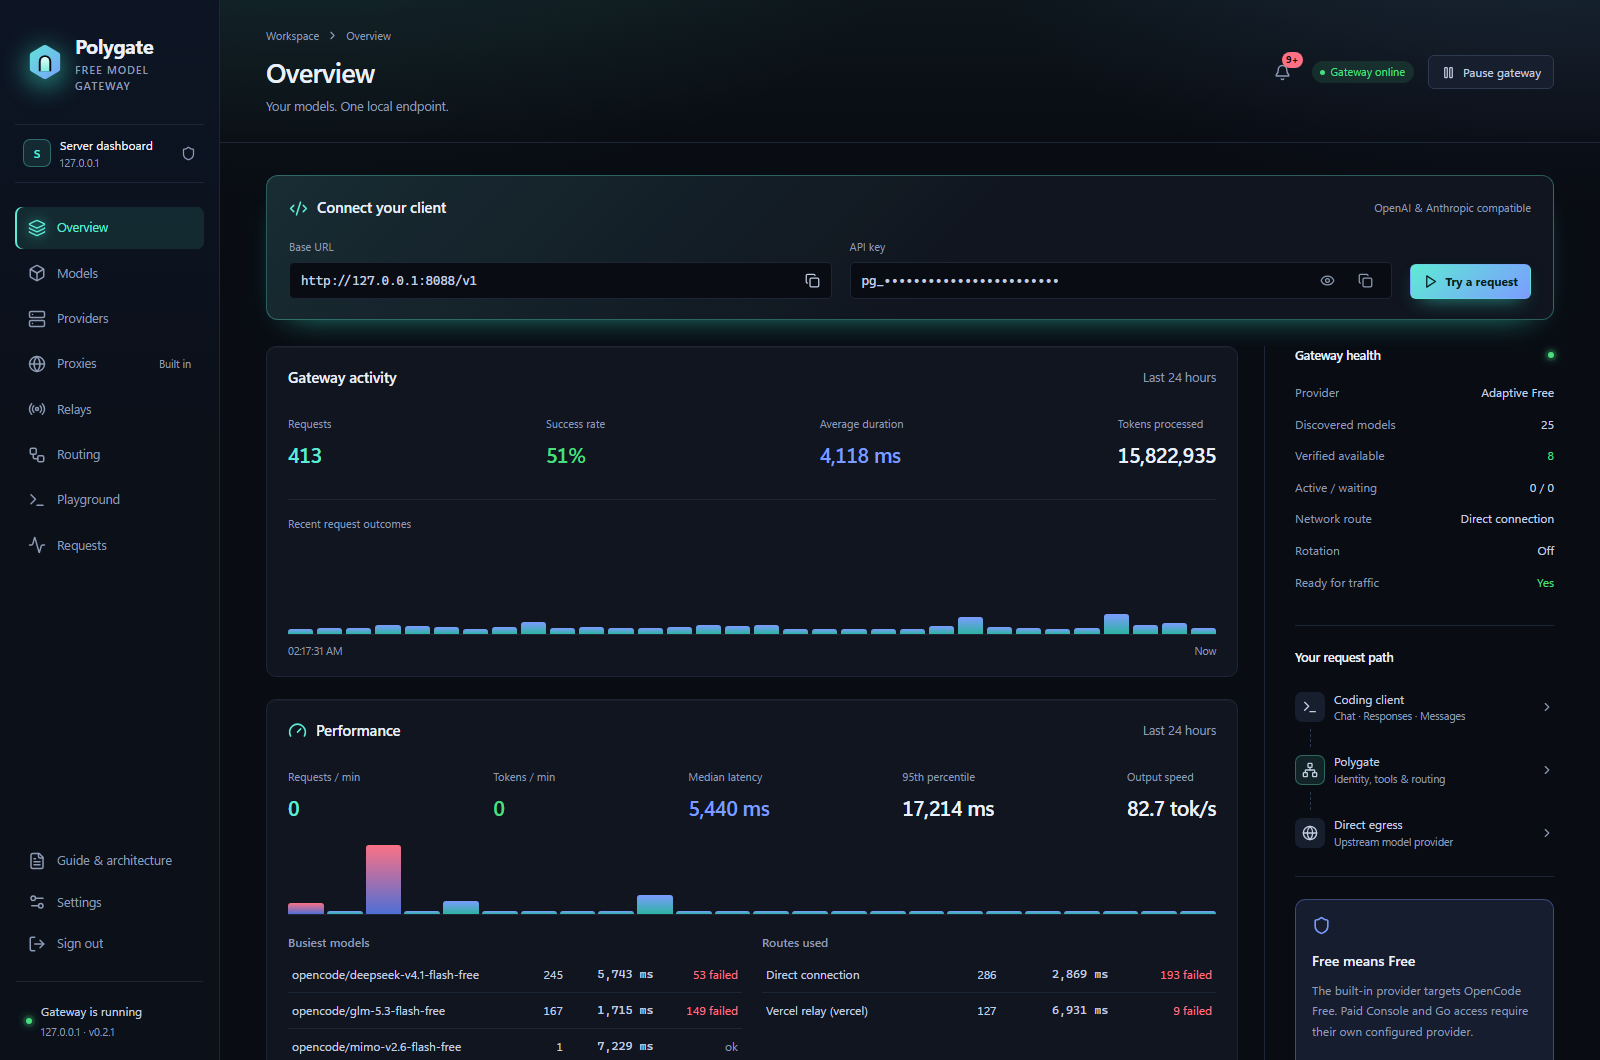
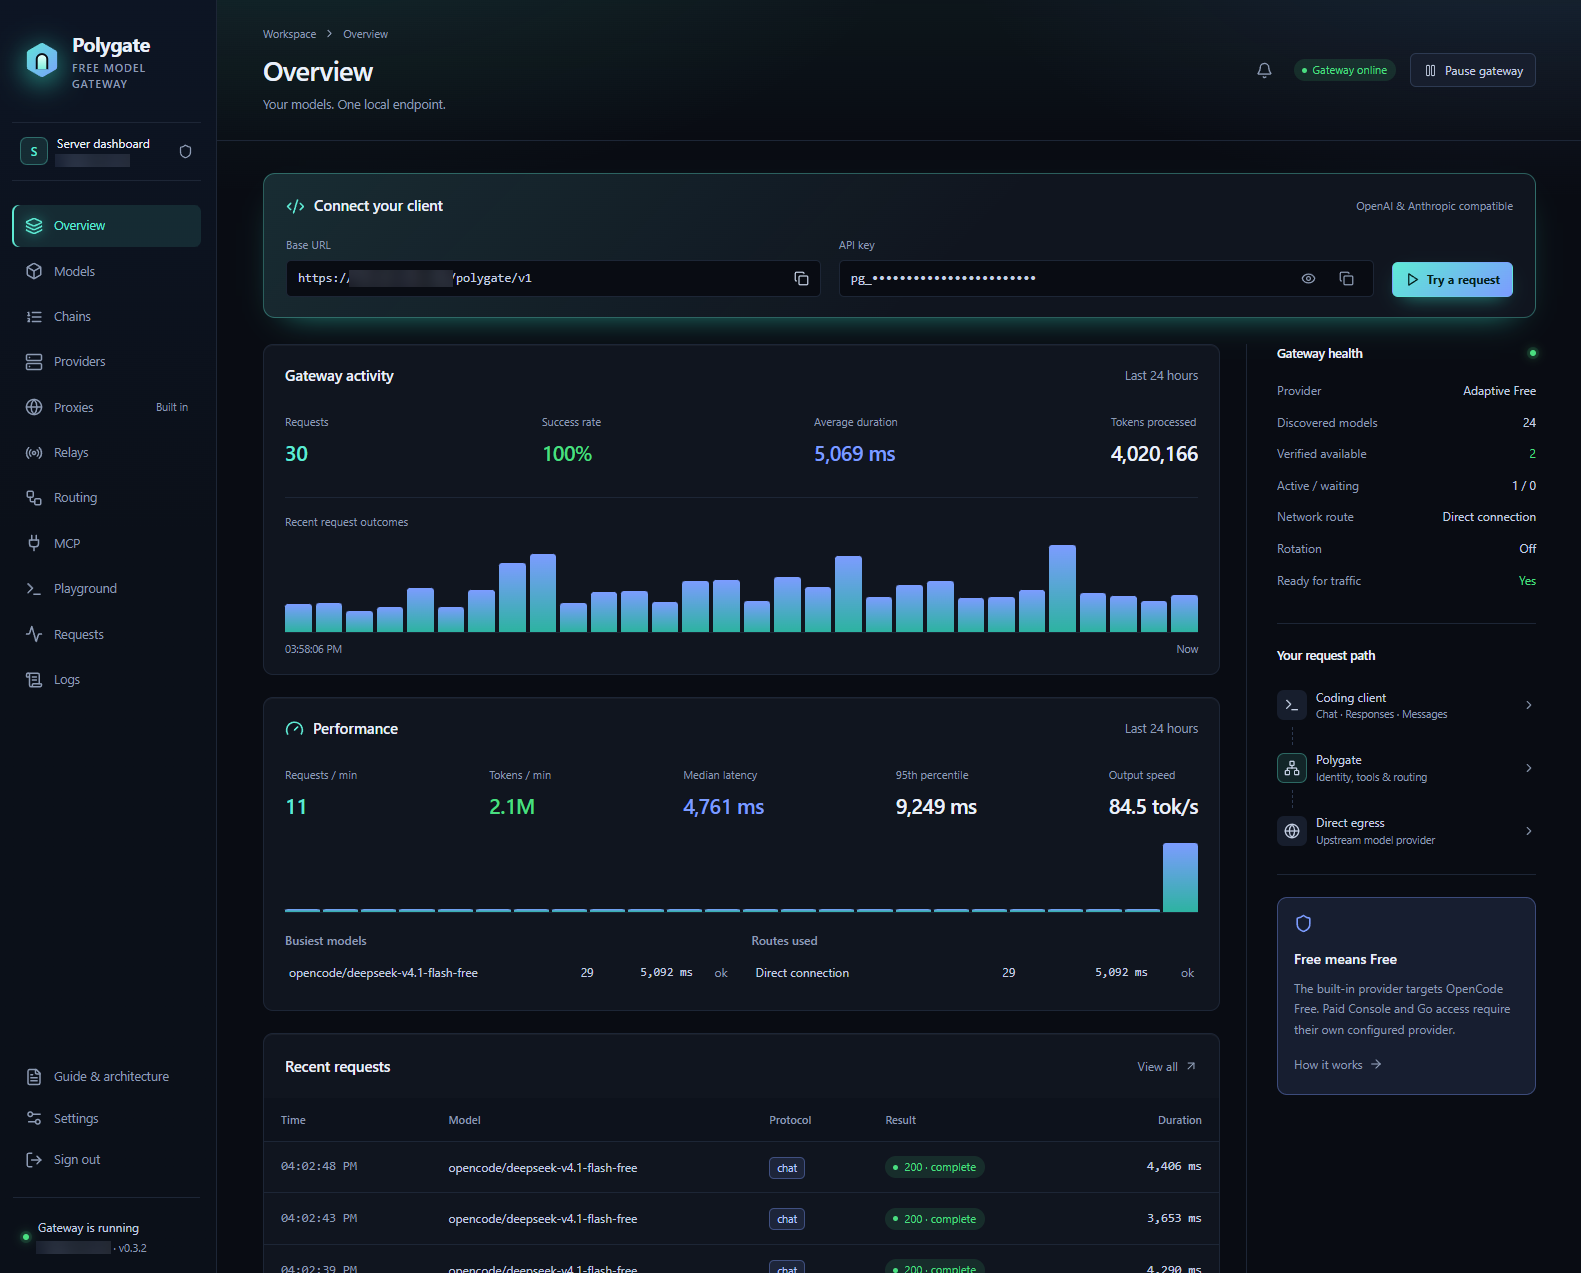
README: new overview screenshot from v0.3.2 on a Linux server
A real overview at a 100% success rate (30 requests), with the server address
hidden. The text above the screenshots now says which version each comes from.

diff --git a/README.md b/README.md
@@ -23,7 +23,7 @@
   <a href="https://github.com/B3hnamR/Polygate/releases/latest">Downloads</a>
 </p>
 
-![Polygate overview with connection details, gateway activity, model health, and performance](assets/screenshots/overview.png)
+![Polygate overview on a Linux server: 30 requests at a 100% success rate, with connection details, gateway activity, model health, and performance](assets/screenshots/overview.png)
 
 ## Why Polygate?
 
@@ -141,7 +141,7 @@ This also publishes ports 80 and 443. Enable HTTPS in **Settings**; both ports m
 
 ## Dashboard showcase
 
-Real screenshots from **Polygate v0.2.1 running in WSL**. Model availability and activity reflect that workspace at capture time. Credentials stay hidden; private relay addresses are masked.
+Real screenshots. The overview at the top is from **Polygate v0.3.2 running on a Linux server**; the views below are from v0.2.1 running in WSL. Model availability and activity reflect each workspace at capture time. Credentials stay hidden; server and private relay addresses are masked.
 
 ### Find a model and set its priority
 
